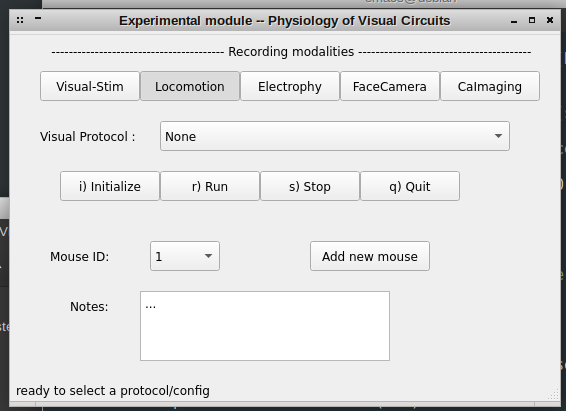
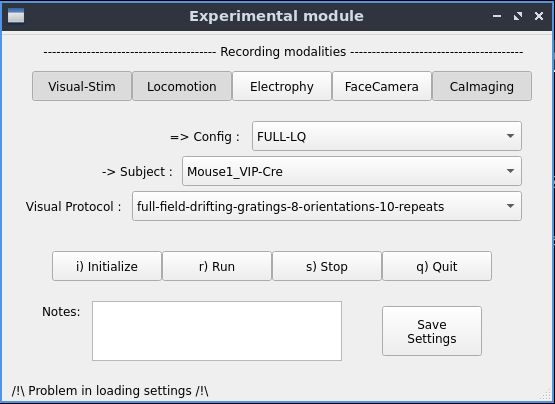
update exp readme

diff --git a/physion/exp/README.md b/physion/exp/README.md
@@ -1,21 +1,84 @@
 # Interface for experimental protocols
 
-## Full install for experimental setups
-
-```
-pip install psychopy
-```
-
 ## GUI
 
 The interface is minimal:
 
 <p align="center">
-  <img src="../doc/exp.png"/>
+  <img src="../../doc/exp.png"/>
 </p>
 
-- It loads the `VisualStim` protocols stored in [/exp/protocols]()
-Select the desired modalities and "init" and "launch" recordings.
+1. Pick the modality that you want to have by checking the upper boxes.
+
+   N.B. the Camera initialization might take 5-6 seconds after clicking
+
+2. Pick the configuration that you want to use.
+
+   The set of configuration is loaded from the files in the [protocols/](protocols/) folder.
+
+   Each file should be a JSON file, it specifies some key metadata related to the experiment:
+   ```
+   {
+    "NIdaq-acquisition-frequency":1000,
+    "NIdaq-analog-input-channels":1,
+    "NIdaq-digital-input-channels":2,
+    "Screen":"Dell-P2018H",
+    "FaceCamera-frame-rate":10,
+    "STEP_FOR_CA_IMAGING_TRIGGER":{"channel":0,
+				   "onset": 0.1,
+				   "duration":0.3,
+				   "value":5.0},
+    "root_datafolder":"DATA",
+    "subjects_file":"mice_yann.json",
+    "experimenter":"Yann Zerlaut",
+    "lab":"Rebola and Bacci labs",
+    "institution":"Institut du Cerveau et de la Moelle, Paris",
+    "protocols":"all" # can be a subset of protocols: ["Pakan-et-al-Elife-2016","sparse-noise-30-min-large-square"]
+    }
+   ```
+   
+2. You need to pick the subject.
+
+   In a given configuration, you specify a `"subjects_file"`. You can then choose which subject from the entries of the file.
+
+   This subject file is also a JSON file with a set of entries specified as follows:
+
+   ```
+   {
+    "Mouse1_WT":{"description":"Mouse1_WT",
+		 "anibio":"1513487",
+		 "sex":"Male",
+		 "strain":"C57B6/J",
+		 "genotype":"Wild-Type",
+		 "species":"Mouse",
+		 "subject_id":"Mouse1",
+		 "weight":"",
+		 "virus":"GCamp6f",
+		 "surgery":"",
+		 "aka":"George Benson",
+		 "date_of_birth":"2020_12_07"},
+    "Mouse2_WT":{"description":"Mouse2_WT",
+		 "anibio":"1513487",
+		 "sex":"Male",
+		 "strain":"C57B6/J",
+		 "genotype":"Wild-Type",
+		 "species":"Mouse",
+		 "subject_id":"Mouse2",
+		 "weight":"",
+		 "virus":"GCamp6f",
+		 "surgery":"",
+		 "aka":"Wes Montgomery",
+		 "date_of_birth":"2020_12_07"}
+		 }
+   ```
+   You can add any additional key to this. They will appear in the `subject` metadata of the datafile.
+
+3. Load a visual stimulation protocol
+
+   Either `None` or one of the protocols stored in the [protocols/](protocols/) folder (and, if `"protocols"` is not set to "all", specified in the configuration file).
+
+
+4. Click "Init", wait 1-2s, and click "Run" to launch the recording.
 
 
 ## Under the hood
@@ -27,3 +90,11 @@ Using separate `threads` for the different processes using the `multiprocessing`
 - THe visual stimulation
 
 - The FLIR-camera
+
+## Full install for experimental setups
+
+```
+pip install psychopy
+pip install nidaqmx
+```
+

diff --git a/physion/visual_stim/README.md b/physion/visual_stim/README.md
@@ -6,7 +6,7 @@ A few examples, that were used to design and calibrate the stimuli, can be found
 
 ## Running the visual stimulation program
 
-If not starting from the main GUI (see [README](../README.md)), open the Anaconda prompt and run:
+If not starting from the main GUI (see [README](../../README.md)), open the Anaconda prompt and run:
 
 ```
 python visual_stim\gui.py
@@ -15,15 +15,17 @@ python visual_stim\gui.py
 There is a `"demo"` mode to adjust and build the protocols.
 
 <p align="center">
-  <img src="../doc/gui-visual-stim.png"/>
+  <img src="../../doc/gui-visual-stim.png"/>
 </p>
+
+A list of protocols are available in the [protocol folder of the repository](../exp/protocols/).
 
 ## Mouse visual field and screen position
 
 The setup corresponds to the following setting:
 
 <p align="center">
-  <img src="../doc/visual-field.png"/>
+  <img src="../../doc/visual-field.png"/>
 </p>
 
 ## Screen settings
@@ -37,19 +39,19 @@ We need to set the following settings:
 #### Display
 
 <p align="center">
-  <img src="../doc/display.png" width="400">
+  <img src="../../doc/display.png" width="400">
 </p>
 
 #### Behavior of the taskbar
 
 <p align="center">
-  <img src="../doc/taskbar.png" width="400" >
+  <img src="../../doc/taskbar.png" width="400" >
 </p>
 
 #### Background
 
 <p align="center">
-  <img src="../doc/background.png" width="400">
+  <img src="../../doc/background.png" width="400">
 </p>
 
 ### 2) Psychopy level
@@ -57,7 +59,7 @@ We need to set the following settings:
 In the "Monitor center", we need to have the following settings:
 
 <p align="center">
-  <img src="../doc/monitor.png">
+  <img src="../../doc/monitor.png">
 </p>
 
 N.B. we don't use the gamma correction of psychopy, it doesn't work, we deal with it below.
@@ -73,12 +75,12 @@ We show below the measurements before and after the correction
 
 ### Before correction
 <p align="center">
-  <img src="../doc/gamma-correction-before.png"/>
+  <img src="../../doc/gamma-correction-before.png"/>
 </p>
 
 ### After correction
 <p align="center">
-  <img src="../doc/gamma-correction-after.png"/>
+  <img src="../../doc/gamma-correction-after.png"/>
 </p>
 
 The measurements and fitting procedure are described in the script: [gamma-correction.py](./gamma-correction.py).
